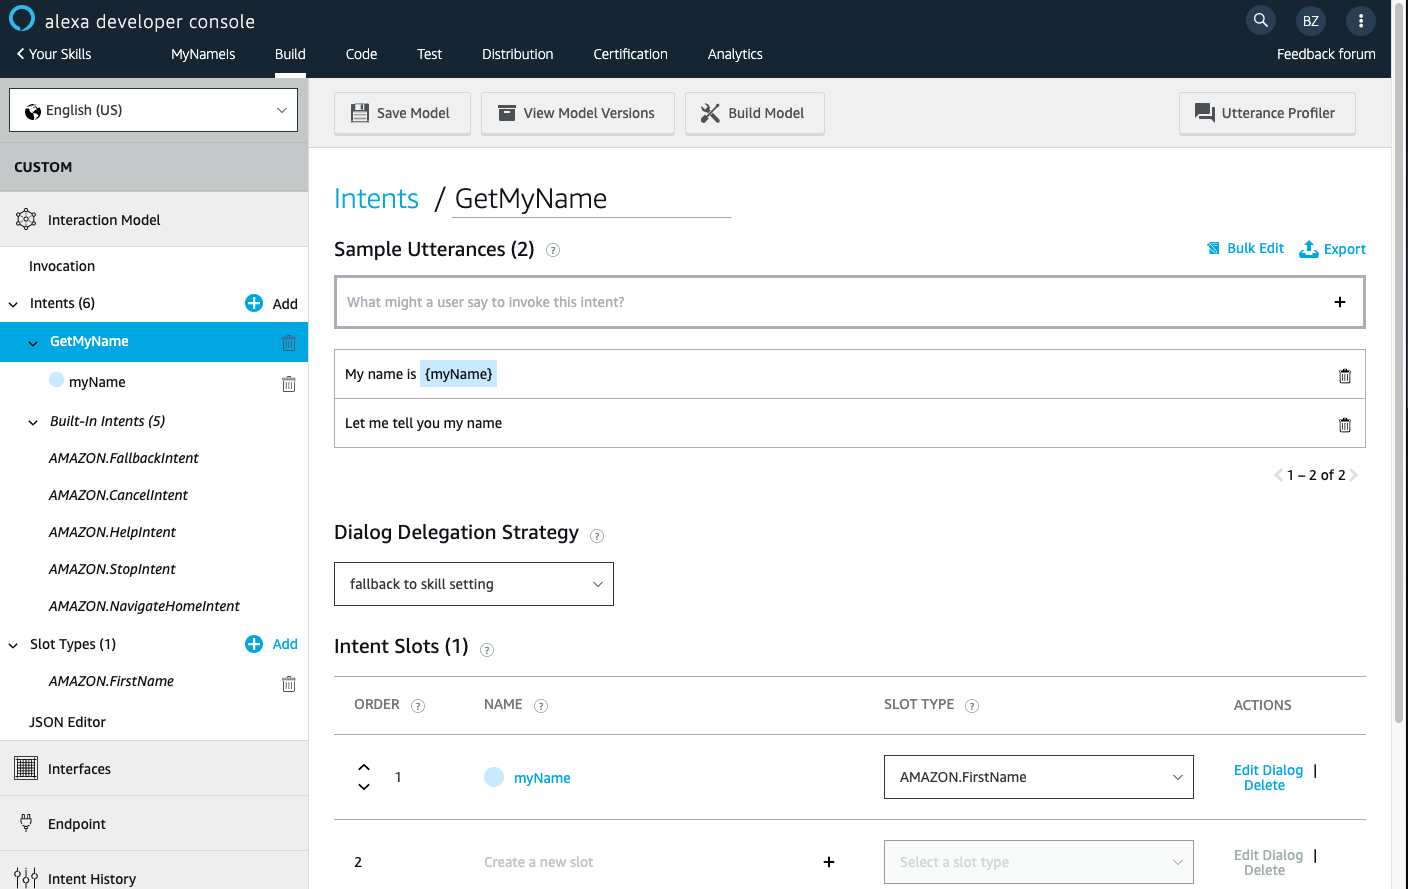
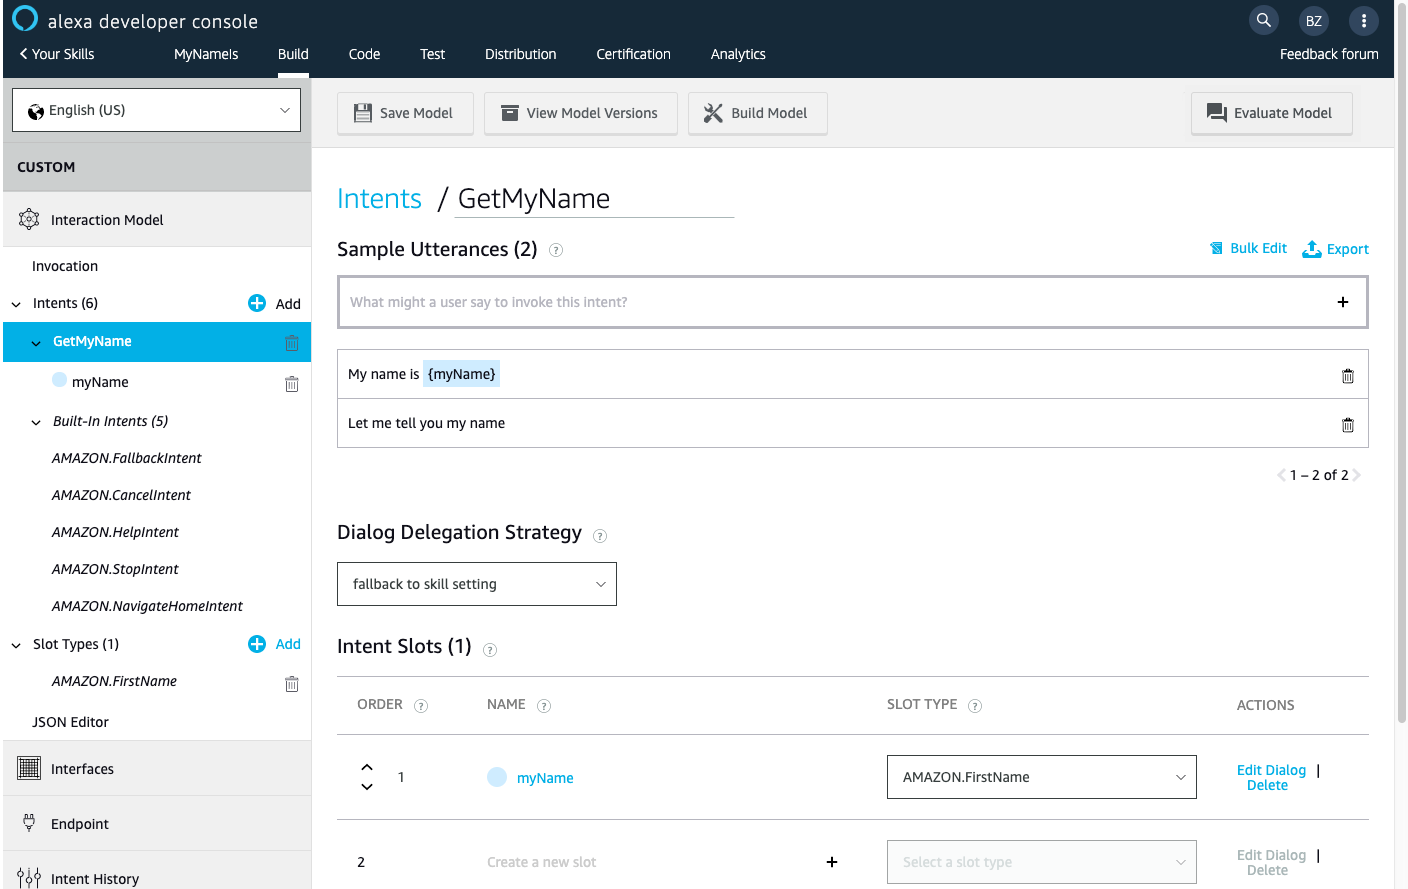
Adding some UI recent changes

diff --git a/BuildYourFirstSkill.md b/BuildYourFirstSkill.md
@@ -58,7 +58,7 @@ Save your model (if you haven't already) and run your first Build.
 
 The Build process will take all your skill definitions and create the needed components to run it, including training of the NLP model needed for your skill.
 
-When the build is done, you should be able to test your intents using the ```Utterances Profiler``` button at the top right of your screen.
+When the build is done, you should be able to test your intents using the ```Evaluate Model``` button at the top right of your screen.
 
 Test your name intent and make sure you can perform a dialog with the skill, that will eventually save your name in the ```myName``` slot.
 
